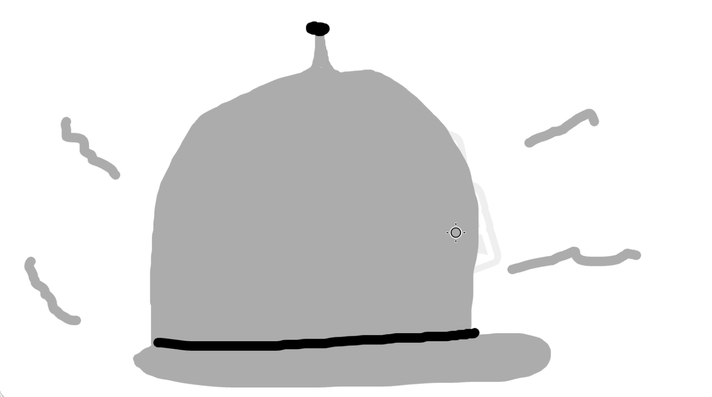
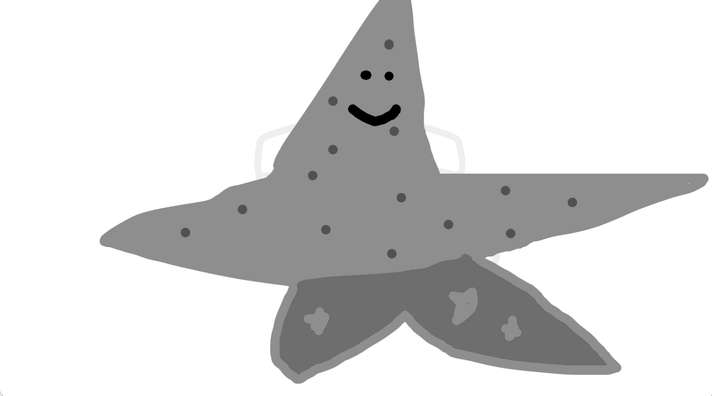
Now use canny and skelotonize baed on area the line takes up. Allows for area shapes and not just lines. Thinking of adding color in the future.

diff --git a/ImageCalculations.py b/ImageCalculations.py
@@ -50,7 +50,6 @@ def save_contours_as_image(contours, width, height, path, thickness=1):
         cv2.polylines(canvas, [pts], isClosed=False, color=0, thickness=thickness)
     save_image(canvas, path)
 
-
 def convert_to_grayscale(img_arr):
     # convert to grayscale
     img_gray = img_arr.mean(axis=2).astype(np.float32) / 255.0
@@ -91,45 +90,74 @@ def get_contours(skeleton):
 
     return contours
 
-def simplify_contours(contours, epsilon_factor=0.01, min_length=15):
+def simplify_contours(contours, epsilon_factor=0.01, min_length=15, small_area_threshold=500, small_epsilon_factor=0.002):
     simplified_contours = []
-    for contour in contours:
-        length = cv2.arcLength(contour, closed=False)
+    for c in contours:
+        length = cv2.arcLength(c, closed=True)
         if length < min_length:
-            continue  # skip noise fragments
-        epsilon = epsilon_factor * cv2.arcLength(contour, closed=False)
-        simplified = cv2.approxPolyDP(contour, epsilon, closed=False)
-        simplified_contours.append(simplified.reshape(-1, 2))  # Reshape to (N, 2) for easier handling
+            continue
+        area = cv2.contourArea(c)
+        factor = small_epsilon_factor if area < small_area_threshold else epsilon_factor
+        epsilon = factor * length
+        simplified = cv2.approxPolyDP(c, epsilon, closed=True)
+        simplified_contours.append(simplified.reshape(-1, 2))
     return simplified_contours
 
 
-def get_draw_strokes(img_path, canvas_width, canvas_height, epsilon_factor=0.01, mask_thresh=0.5, min_length=15):
+def get_draw_strokes(img_path, canvas_width, canvas_height, epsilon_factor=0.01, canny_low=50, canny_high=150, fill_area_ratio=0.5, min_length=15):
     img = load_image(img_path)
+    if img is None:
+        return
 
-    if img is None: return
-    
-    _, new_width, new_height, x_offset, y_offset = find_scale_and_offsets(img.shape[0], img.shape[1], canvas_height, canvas_width)
+    _, new_width, new_height, x_offset, y_offset = find_scale_and_offsets(
+        img.shape[0], img.shape[1], canvas_height, canvas_width
+    )
     img_resized = resize_image(img, new_width, new_height)
 
     gray_img = convert_to_grayscale(img_resized)
+    gray_uint8 = (gray_img * 255).astype(np.uint8)
     save_image(gray_img, './gray.png')
-    mask = create_mask(gray_img, threshold=mask_thresh)
-    save_image(mask, './mask.png')
-    skeleton = skeletonize(mask)
-    save_image(skeleton, './skeleton.png')
 
-    contours = get_contours(skeleton=skeleton)
-    simplified_contours = simplify_contours(contours, epsilon_factor=epsilon_factor, min_length=min_length)
+    # replaces create_mask/threshold — edges instead of brightness, polarity-agnostic
+    edges = cv2.Canny(gray_uint8, canny_low, canny_high)
+    edges_closed = cv2.morphologyEx(edges, cv2.MORPH_CLOSE, np.ones((3, 3), np.uint8))
+    save_image(edges_closed, './edges.png')
+
+    contours, hierarchy = cv2.findContours(edges_closed, cv2.RETR_CCOMP, cv2.CHAIN_APPROX_SIMPLE)
+
+    simplified_contours = []
+    for c in contours:
+        length = cv2.arcLength(c, closed=True)
+        if length < min_length:
+            continue
+
+        area = cv2.contourArea(c)
+        x, y, w, h = cv2.boundingRect(c)
+        fill_ratio = area / max(w * h, 1)
+
+        if fill_ratio > fill_area_ratio:
+            # filled region — use its outline directly, no skeletonize needed
+            epsilon = epsilon_factor * length
+            simplified = cv2.approxPolyDP(c, epsilon, closed=True)
+            simplified_contours.append(simplified.reshape(-1, 2))
+        else:
+            # thin/line-like — build a small mask of just this contour, skeletonize that alone
+            local_mask = np.zeros((new_height, new_width), dtype=np.uint8)
+            cv2.drawContours(local_mask, [c], -1, 255, thickness=cv2.FILLED)
+            local_skeleton = skeletonize(local_mask.astype(bool))
+
+            line_contours = get_contours(local_skeleton)  # your existing sknw-based function
+            line_simplified = simplify_contours(line_contours, epsilon_factor=epsilon_factor, min_length=min_length)
+            simplified_contours.extend(line_simplified)
+
     save_contours_as_image(simplified_contours, new_width, new_height, './simp_conts.png')
 
-    # Offset the contours to fit within the canvas
     offset_contours = []
     for contour in simplified_contours:
         offset_contour = [(x + x_offset, y + y_offset) for (x, y) in contour]
         offset_contours.append(offset_contour)
 
     return offset_contours
-
 if __name__ == "__main__":
     # Example usage
     points = get_draw_points("./images/test_img.png", 800, 600, threshold=0.5, step_count=12)

diff --git a/main.py b/main.py
@@ -25,7 +25,7 @@ def main():
                 bf.DrawBoxBorder()
             case 'd':
                 files = print_images()
-                file_index = get_int_input('File Index', len(files)-1)
+                file_index = get_int_input('File Index', 0)
                 img_path = get_img_path(files, file_index)
                 mask_thresh = get_float_input('Mask_Thresh', 1.0)
                 step_count = get_int_input('step count', 10)
@@ -33,15 +33,17 @@ def main():
                 bf.DrawImageDots(img_path=img_path, threshold=mask_thresh, step_count=step_count, pen_size=pen_size)
             case 's':
                 files = print_images()
-                file_index = get_int_input('File Index', len(files)-1)
+                file_index = get_int_input('File Index', 0)
                 img_path = get_img_path(files, file_index)
                 epsilon = get_float_input('epsilon_factor', 0.001)
+                canny_low = get_int_input('canny_low', 300)
+                canny_high = get_int_input('canny_high', 600)
                 segment_steps = get_int_input('segment_steps', 1)
-                mask_thresh = get_float_input('mask_thresh', 0.5)
-                min_length = get_int_input('min line length', 30)
+                fill_ratio = get_float_input('fill_ratio', 0.5)
+                min_length = get_int_input('min_line length', 30)
                 pen_size = get_int_input('pen_size', 1)
                 bf.DrawImageContours(img_path=img_path,epsilon_factor=epsilon,
-                                     segment_steps=segment_steps,mask_thresh=mask_thresh,
+                                     segment_steps=segment_steps,canny_low=canny_low,canny_high=canny_high, fill_area_ratio=fill_ratio,
                                      min_length=min_length,pen_size=pen_size)
             case 'e':
                 bf.EraseDrawing()

diff --git a/BrowserFunctions.py b/BrowserFunctions.py
@@ -119,14 +119,14 @@ class BrowserFunctions:
             self.MoveMouseOnCanvas(x1, y1, steps=segment_steps)
         self.page.mouse.up()
 
-    def DrawImageContours(self, img_path="./images/test_img.png", epsilon_factor=0.01, segment_steps=3, mask_thresh=0.5, min_length=15, pen_size=2):
+    def DrawImageContours(self, img_path="./images/test_img.png", epsilon_factor=0.01, segment_steps=3, canny_low=50, canny_high=150, fill_area_ratio=0.5, min_length=15, pen_size=2):
         if not self.FindCanvas():
             return
         self.SetPenSize(pen_size)
         self.SetPen()
         self.FindColorInput()
         self.SetColor((0,0,0)) #black
-        strokes = get_draw_strokes(img_path, self.maxWidth, self.maxHeight, epsilon_factor=epsilon_factor, mask_thresh=mask_thresh, min_length=min_length)
+        strokes = get_draw_strokes(img_path, canvas_width=self.maxWidth, canvas_height=self.maxHeight, epsilon_factor=epsilon_factor, canny_low=canny_low, canny_high=canny_high, fill_area_ratio=fill_area_ratio, min_length=min_length)
 
         if not strokes:
             print("No strokes to draw — check your image and threshold.")
